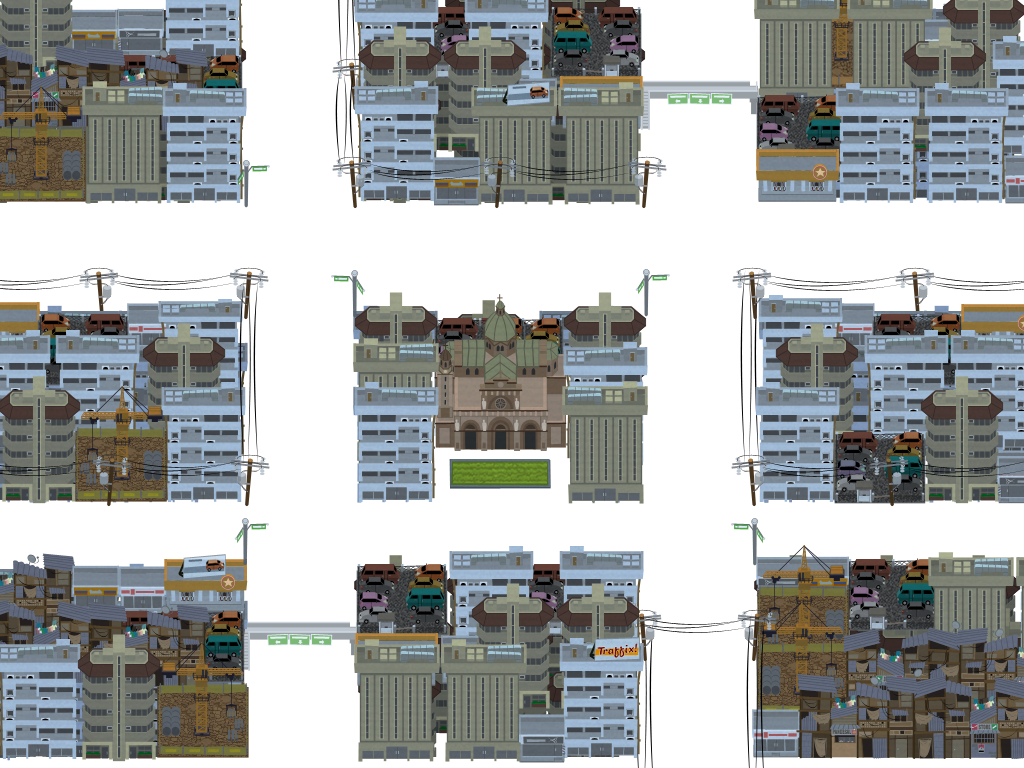
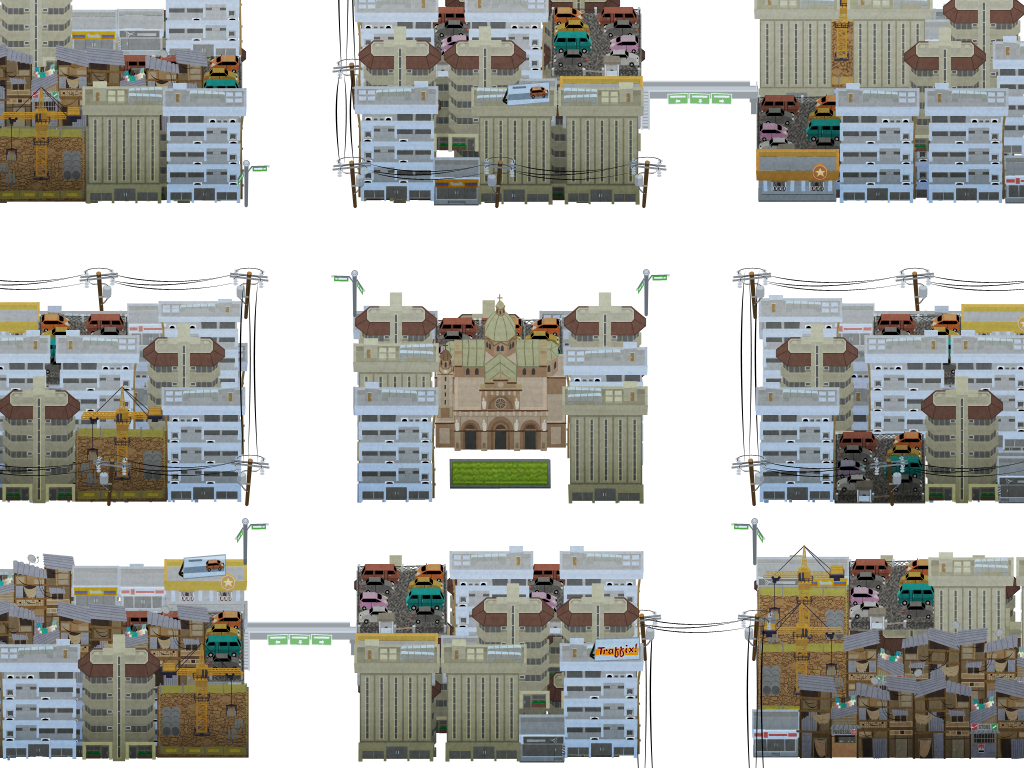
switched buildings and bg graphics, enabled canvas animation again

diff --git a/public/stylesheets/game.css b/public/stylesheets/game.css
@@ -143,7 +143,7 @@ div#messages { position:absolute; top:250px; left:0px; text-align:center; width:
 #map, .neighborhood, .street, .buildings, .intersection { position:absolute; }
 #map { top:0px; left:0px; width:100%; height:100%; }
 .neighborhood, .buildings { top:0px; left:0px; background:url(../images/bg.jpg); width:100%; height:100%; }
-.buildings { top:0px; left:0px; background:url(../images/buildings2.png); width:100%; height:100%; z-index:12; }
+.buildings { top:0px; left:0px; background:url(../images/buildings.png); width:100%; height:100%; z-index:12; }
 .street{z-index:14; -webkit-tap-highlight-color: rgba(0,0,0,0)}
 .street.horizontal.lanes_4 { width:100%; height: 100px; }
 .street.horizontal.lanes_2 { width:100%; height: 50px; }

diff --git a/public/javascripts/game.js b/public/javascripts/game.js
@@ -32,7 +32,7 @@ Game = {
   width                : MAP_WIDTH,
   height               : MAP_HEIGHT,
 
-  enable_canvas        : false, // if set to true, use Canvas to animate. if false, use the DOM.
+  enable_canvas        : true, // if set to true, use Canvas to animate. if false, use the DOM.
    
   fps                  : FPS,
   timer                : 0,
